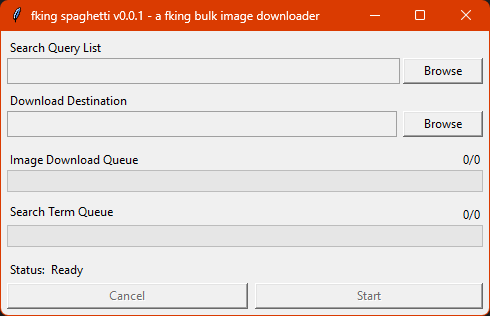
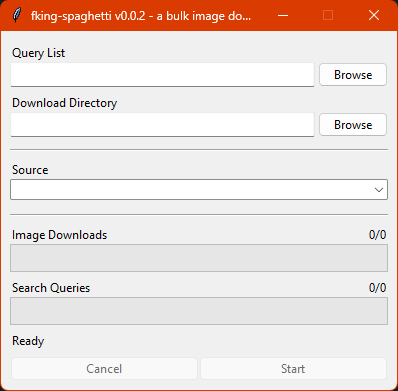
Updated README.md

Changed region(s): [[0.0, 0.0, 1.0, 1.0], [0.995, 0.0, 1.0, 0.0285]]

diff --git a/README.md b/README.md
@@ -25,8 +25,12 @@ palm trees
 ```
 
 ## Status
-Well, it works... there are some bugs for sure. A major rewrite is in the near future, but I like to get the idea working,
-and then fix... maybe. Please open issues for any bug you may find, and check back often.
+Well, it's been rewritten, I hope the pythonic gods can forgive me for what I've done. 
+Please open issues for any bug you may find, and check back often.
+
+### Custom Scraping Source
+Want to scrape your own location? Implement `fking.scrapers.IScraper` yourself, and you could (*potentially*) scrape
+from anywhere.
 
 ### Feature Ideas
 
@@ -57,6 +61,6 @@ A few examples of the UI on Windows 11.
 ![A preview image of the UI](/.github/ui-1.png)
 
 
-**Busy**
+**GettyImages Source**
 
 ![A preview image of the UI busy](/.github/ui-2.png)
